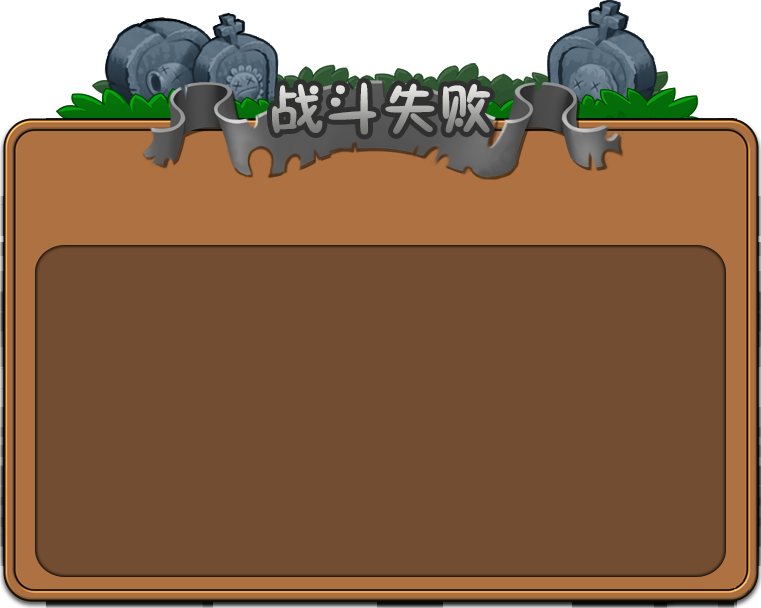
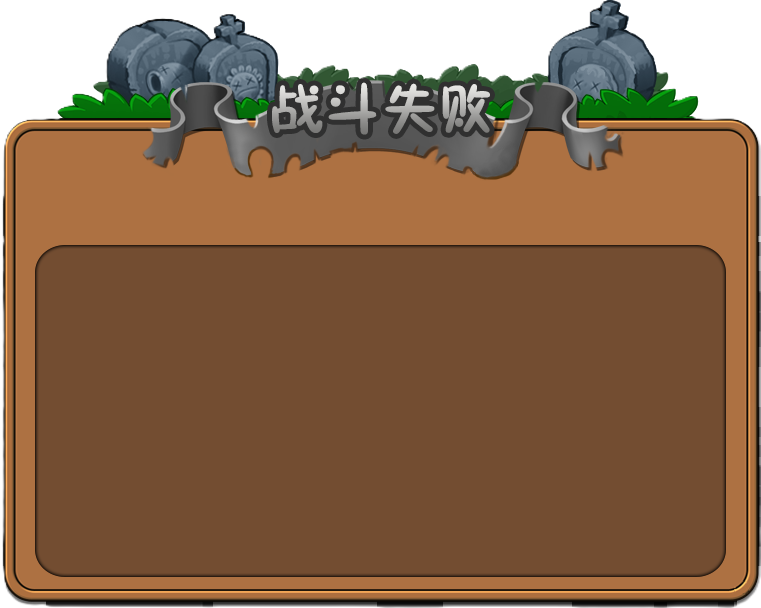
新增WIN/LOOSE的畫面

diff --git a/src/Scene/NormalLevelScene.cpp b/src/Scene/NormalLevelScene.cpp
@@ -37,9 +37,14 @@ void NormalLevelScene::on_enter() {
     CreateLawnMowersFromConfig();
     CreateSeedChooserFromConfig();
     UpdateSunText();
+
 }
 
 void NormalLevelScene::on_update() {
+    if (m_GameState == GameState::VICTORY || m_GameState == GameState::GAME_OVER) {
+        HanldeEndScreenInput();
+        return;
+    }
     if (m_GameState!=GameState::PLAYING) {return;}
 
     HandleInput();
@@ -77,7 +82,39 @@ void NormalLevelScene::on_render() {
 
 void NormalLevelScene::on_exit() {
     LOG_DEBUG("Exit NormalLevelScene => Level {}", m_Config.levelId);
+
     RemoveAllEntity();
+
+    if (m_VictoryScreen) {
+        m_Root.RemoveChild(m_VictoryScreen);
+        m_VictoryScreen = nullptr;
+    }
+
+    if (m_Background) {
+        m_Root.RemoveChild(m_Background);
+        m_Background = nullptr;
+    }
+
+    if (m_SeedChooser) {
+        if (m_SeedChooser->GetBackgroundObject()) {
+            m_Root.RemoveChild(m_SeedChooser->GetBackgroundObject());
+        }
+        if (m_SeedChooser->GetSunText()) {
+            m_Root.RemoveChild(m_SeedChooser->GetSunText());
+        }
+        for (auto& card : m_SeedChooser->GetCards()) {
+            if (card) {
+                m_Root.RemoveChild(card);
+                if (card->GetCooldownOverlay()) {
+                    m_Root.RemoveChild(card->GetCooldownOverlay());
+                }
+                if (card->GetOuterFrame()) {
+                    m_Root.RemoveChild(card->GetOuterFrame());
+                }
+            }
+        }
+        m_SeedChooser = nullptr;
+    }
 }
 
 // ==================================================
@@ -99,7 +136,7 @@ void NormalLevelScene::CreateLawnMowersFromConfig() {
         glm::vec2 pos = m_Board.GetCellCenter(row, 0);
 
         // 放在第 0 欄再往左一點
-        pos.x = m_Config.m_HomeLineX + 10.0f;
+        pos.x = m_Config.m_HomeLineX + 1.0f;
 
         auto mower = std::make_shared<LawnMower>(row, pos);
         m_LawnMowers.push_back(mower);
@@ -582,6 +619,8 @@ void NormalLevelScene::EnterVictory() {
     }
 
     m_GameState = GameState::VICTORY;
+    RemoveAllEntity();
+    ShowVictoryScreen();
     LOG_DEBUG("VICTORY!");
 }
 void NormalLevelScene::EnterGameOver() {
@@ -590,7 +629,55 @@ void NormalLevelScene::EnterGameOver() {
     }
 
     m_GameState = GameState::GAME_OVER;
+    RemoveAllEntity();
+    ShowGameOverScreen();
     LOG_DEBUG("GAME OVER!");
+}
+void NormalLevelScene::ShowVictoryScreen() {
+    if (m_VictoryScreen) {
+        return;
+    }
+
+    LOG_DEBUG("Victory screen path = {}", m_Config.VictoryScreenPath);
+
+    auto image = std::make_shared<Util::Image>(m_Config.VictoryScreenPath);
+    m_VictoryScreen = std::make_shared<Util::GameObject>(
+        image,
+        1.0f
+    );
+
+    m_VictoryScreen->m_Transform.translation = {0.0f, 0.0f};
+
+    m_Root.AddChild(m_VictoryScreen);
+
+    LOG_DEBUG("Victory screen created");
+}
+
+void NormalLevelScene::ShowGameOverScreen() {
+    if (m_GameOverScreen) {
+        return;
+    }
+
+    m_GameOverScreen = std::make_shared<Util::GameObject>(
+        std::make_shared<Util::Image>(
+            m_Config.LooseScreenPath
+        ),
+        1.0f
+    );
+
+    m_GameOverScreen->m_Transform.translation = {0.0f, 0.0f};
+
+    m_Root.AddChild(m_GameOverScreen);
+}
+void NormalLevelScene::HanldeEndScreenInput() {
+    if (!m_Manager) {
+        return;
+    }
+
+    if (Util::Input::IsKeyUp(Util::Keycode::RETURN) ||
+        Util::Input::IsKeyUp(Util::Keycode::MOUSE_LB)) {
+        m_Manager->switch_to(SceneManager::SceneType::MENU);
+        }
 }
 
 
@@ -673,12 +760,13 @@ void NormalLevelScene::RemoveAllEntity() {
     }
     m_Suns.clear();
 
-    m_Root.RemoveChild(m_SeedChooser->GetBackgroundObject());
-    m_Root.RemoveChild(m_SeedChooser->GetSunText());
-    for (auto& card : m_SeedChooser->GetCards()) {
-        if (card) m_Root.RemoveChild(card);
+    // 移除 除草機
+    for (auto& LawnMower : m_LawnMowers) {
+        if (LawnMower) {
+            m_Root.RemoveChild(LawnMower);
+        }
     }
-    m_Root.RemoveChild(m_Background);
+    m_LawnMowers.clear();
 }
 void NormalLevelScene::RemoveDeadEntities() {
     // 移除子彈

diff --git a/include/Scene/NormalLevelScene.hpp b/include/Scene/NormalLevelScene.hpp
@@ -61,6 +61,7 @@ private:
     bool TryCollectSun(const glm::vec2& mousePos);
     bool CanPlantAt(int row,int col, PlantType type) const; // 驗證是否可種植
     void PlacePlantAt(int row,int col, PlantType type); // 執行種植
+    void HanldeEndScreenInput();
 
 
     // ============================
@@ -104,6 +105,8 @@ private:
     void CheckGameOver();
     void EnterVictory();
     void EnterGameOver();
+    void ShowVictoryScreen();
+    void ShowGameOverScreen();
 
     // ============================
     // Cleanup
@@ -127,6 +130,8 @@ private:
     GameBoard m_Board;
     std::shared_ptr<BackgroundImage> m_Background;
     std::shared_ptr<SeedChooser> m_SeedChooser;
+    std::shared_ptr<Util::GameObject> m_VictoryScreen;
+    std::shared_ptr<Util::GameObject> m_GameOverScreen;
 
     // ============================
     // 遊戲狀態

diff --git a/include/Level/LevelConfig.hpp b/include/Level/LevelConfig.hpp
@@ -44,6 +44,8 @@ struct LevelConfig {
     glm::vec2 SeedChooserPos = glm::vec2(-170.0f, 260.0f);
 
     std::string fontDir = RESOURCE_DIR "/font.ttf";
+    std::string VictoryScreenPath = RESOURCE_DIR "/graphics/Screen/GameVictory.png";
+    std::string LooseScreenPath = RESOURCE_DIR "/graphics/Screen/GameLoose.png";
 
     std::string backgroundPath;
 
